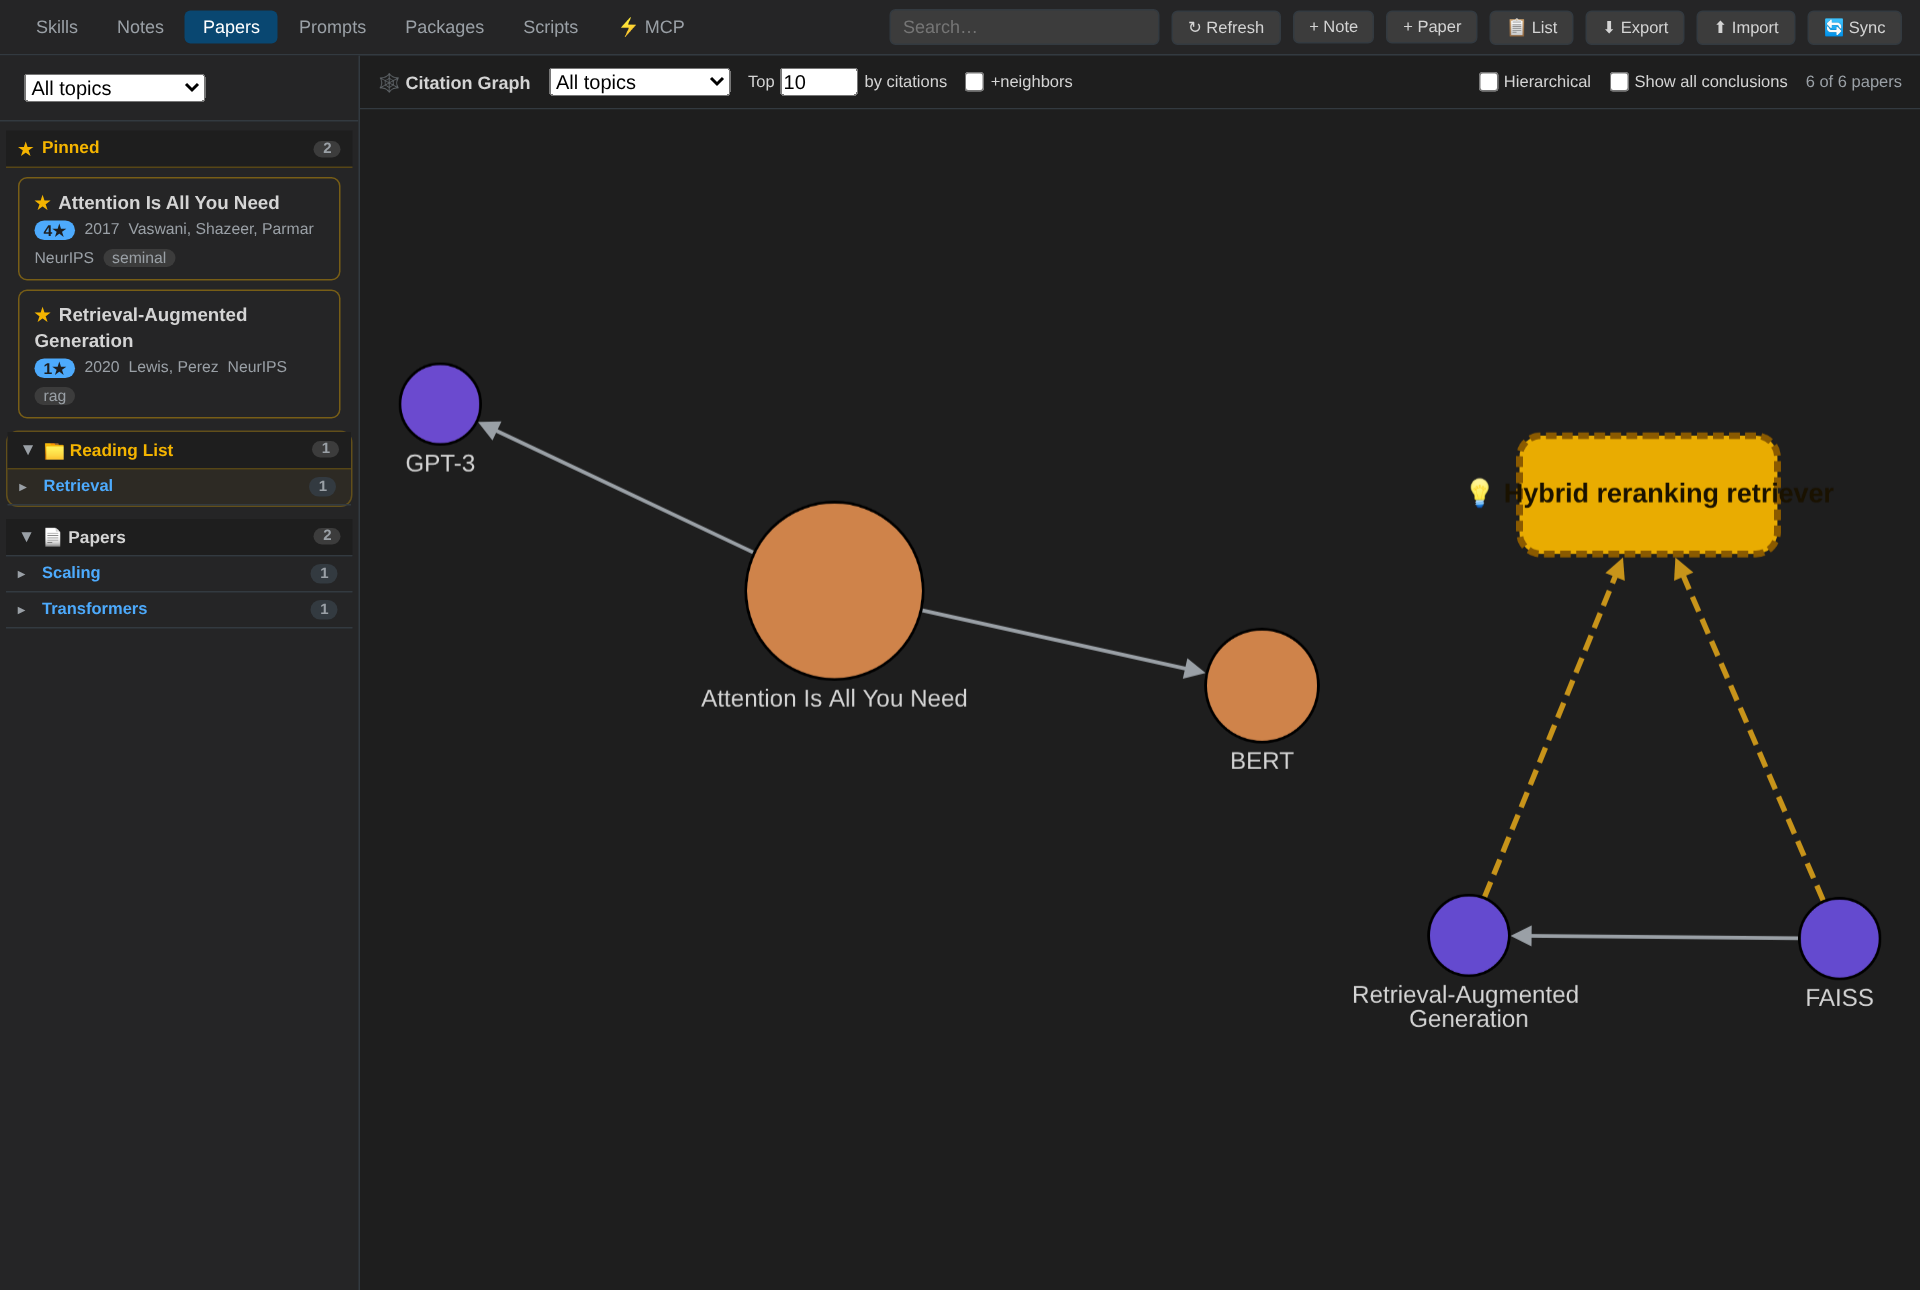
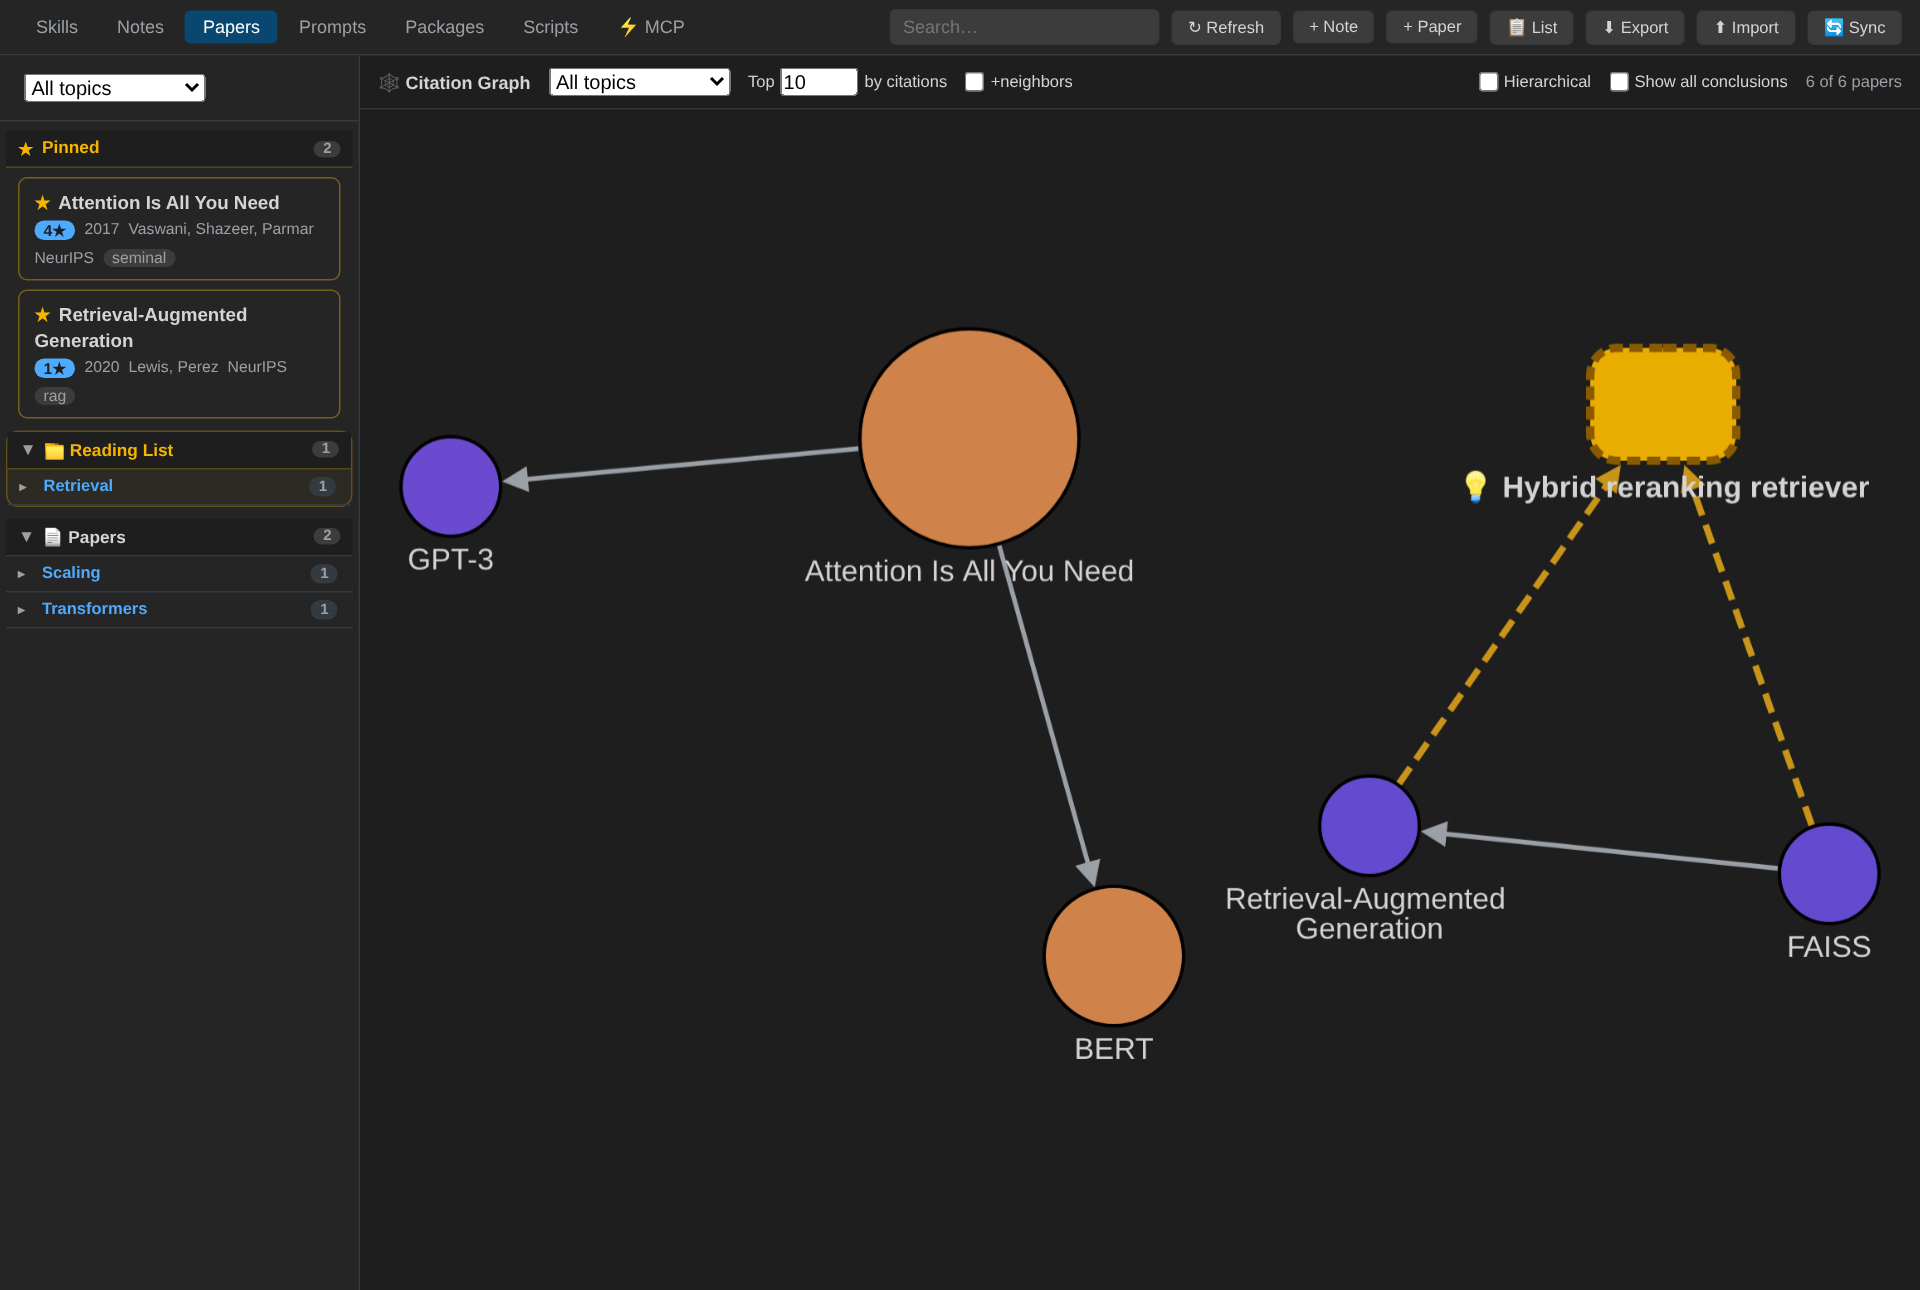
1.8.2: graph idea nodes size to a compact box with title below (no clipping)

diff --git a/src/webview/panel.html b/src/webview/panel.html
@@ -2214,8 +2214,10 @@ function renderPaperGraph(data) {
       { selector: 'node[kind = "idea"]', style: {
         'shape': 'round-rectangle', 'background-color': '#f4b400', 'background-opacity': 0.95,
         'border-color': '#8a5a00', 'border-width': 2.5, 'border-style': 'dashed',
-        'width': 96, 'height': 44, 'color': '#1a1200', 'font-weight': 'bold', 'font-size': 10,
-        'text-valign': 'center', 'text-margin-y': 0, 'text-max-width': 150,
+        'width': 44, 'height': 34,
+        'color': txt, 'font-weight': 'bold', 'font-size': 9,
+        'text-valign': 'bottom', 'text-halign': 'center', 'text-margin-y': 4,
+        'text-wrap': 'wrap', 'text-max-width': 150,
       } },
       { selector: 'edge', style: {
         'width': 1.4, 'line-color': edgeCol, 'target-arrow-color': edgeCol,

diff --git a/CHANGELOG.md b/CHANGELOG.md
@@ -3,6 +3,10 @@
 All notable changes to the **Personal Knowledge** extension are documented here.
 This project follows [Semantic Versioning](https://semver.org/).
 
+## [1.8.2] — 2026-07-22
+
+- **Papers graph** — idea nodes now render as a compact rounded shape with the title placed **below** (like paper nodes), so a long idea title is no longer clipped inside the box.
+
 ## [1.8.1] — 2026-07-22
 
 - **Fix: `[[...]]` inside code no longer breaks rendering** — wiki-links are now resolved by a code-aware Markdown extension, so `[[...]]` inside a code block or diagram (e.g. a Mermaid `[[Kafka]]` node) is left untouched instead of being rewritten into a link. This previously produced Mermaid parse errors and corrupted code blocks; the fix also covers single-file and linked HTML export.